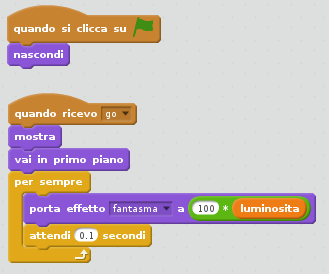
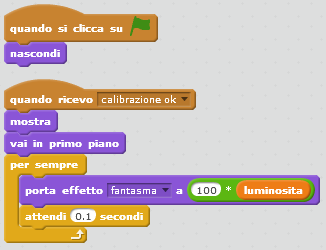
scratch: updated the sunset project

Changed region(s): [[0.0, 0.308, 0.9816, 0.98], [0.0, 0.028, 0.4908, 0.28], [0.0307, 0.0, 0.184, 0.056]]

diff --git a/scratch/scratch-tramonto.html b/scratch/scratch-tramonto.html
@@ -36,7 +36,7 @@ tramonto in scratch</p>
 <p>Per comodità, nel progetto il valore della luminosità è stato normalizzato nell'intervallo 0&div;1, con 0 che indica il livello minimo di luminosità (il buio), 1 quello massimo (fotoresistore in piena luce). In questo modo è relativamente facile programmare il moto dello sprite <strong>Sole</strong> tra due coordinate y prefissate:</p>
 <img src="img/scratch-tramonto/script-sole.png">
 <p class="illustration">Lo script dello sprite <strong>Sole</strong>.</p>
-<p>Tralasciando momentaneamente il fatto che lo sprite inizialmente si nasconde ed attende il ricevimento del messaggio <strong>go</strong> prima di iniziare la sua attività, si nota che il ciclo principale è composto di quattro fasi:</p>
+<p>Tralasciando momentaneamente il fatto che lo sprite inizialmente si nasconde ed attende il ricevimento del messaggio <strong>calibrazione ok</strong> prima di iniziare la sua attività, si nota che il ciclo principale è composto di quattro fasi:</p>
 <ol>
 <li>acquisizione del livello di luminosità e sua normalizzazione nell'intervallo 0&div;1, sulla base dei valori delle variabili <code>luminosita_min</code> e <code>luminosita_max</code>, sulle quali torneremo in seguito;</li>
 <li>controllo che il valore normalizzato non ecceda i limiti 0 e 1;</li>
@@ -53,10 +53,12 @@ tramonto in scratch</p>
 <h2>Calibrazione</h2>
 <p>Come si determinano i valori di luminosità minimo e massimo? In linea di principio si potrebbe stabilire che il valore minimo &mdash; buio assoluto &mdash; corrisponde alla tensione nulla, mentre quello massimo &mdash; luminosità &ldquo;infinita&rdquo; &mdash; alla tensione di alimentazione, ovvero 5V. Leggendo le specifiche dell'hardware di Arduino scopriremmo che i valori numerici associati alle due tensioni nominali sono rispettivamente 0 e 1023.</p>
 <p>Non è tuttavia detto che le variazioni di luce effettive coprano tutto l'intervallo ipotizzato; più realisticamente i valori acquisiti si troveranno all'interno di un intervallo più piccolo, vuoi per le caratteristiche dell'ambiente in cui si opera, vuoi per le peculiarità costruttive del sensore. Per questa ragione conviene lasciare al software la responsabilità di stabilire quali siano le soglie di funzionamento corrette. La <em>calibrazione</em> è la procedura che si occupa di ciò.</p>
-<p>In questo caso la procedura di calibrazione sarà piuttosto semplice: si limiterà ad acquisire il livello di luminosità ad intervalli regolari per cinque secondi, aggiornando continuamente il livello minimo e massimo registrati: durante questi cinque secondi sarà nostra cura fare in modo che il fotoresistore sia investito dalla maggior quantità di luce possibile, in modo da realizzare la lettura del valore massimo, e porlo quindi in una zona d'ombra (oscurandolo magari con la mano), per determinare correttamente il valore minimo. Della calibrazione si occupa lo sfondo:</p>
+<p>La procedura di calibrazione è piuttosto semplice: si limita a campionare il livello di luminosità ad intervalli regolari per un lasso di tempo predefinito, aggiornando continuamente il livello minimo e massimo registrati: nel mentre sarà nostra cura fare in modo che il fotoresistore sia investito dalla maggior quantità di luce possibile, in modo da realizzare la lettura del valore massimo, quindi porlo in una zona buia (oscurandolo magari con la mano), per determinare correttamente il valore minimo. Della calibrazione si occupa lo sfondo:</p>
 <img src="img/scratch-tramonto/script-sfondo.png">
 <p class="illustration">La procedura di calibrazione.</p>
-<p>Per rendere la procedura di calibrazione più amichevole, è stato aggiunto un conto alla rovescia che scandisce i cinque secondi e mostra all'utente i livelli minimo e massimo registrati fino a quel punto:</p>
+<p>Per rendere la procedura di calibrazione più amichevole, è stato aggiunto un conto alla rovescia della durata di cinque secondi, che scandisce il tempo che passa e mostra all'utente i livelli minimo e massimo registrati fino a quel punto:</p>
+<img src="img/scratch-tramonto/script-conteggio.png">
+<p class="illustration">Lo script che regola la durata della calibrazione.</p>
 <img src="img/scratch-tramonto/calibrazione.png">
 <p class="illustration">Due secondi la termine della calibrazione.</p>
 <p>Terminata la fase di calibrazione, si potrà far tramontare il sole in Scratch oscurando artificialmente il fotoresistore!</p>
